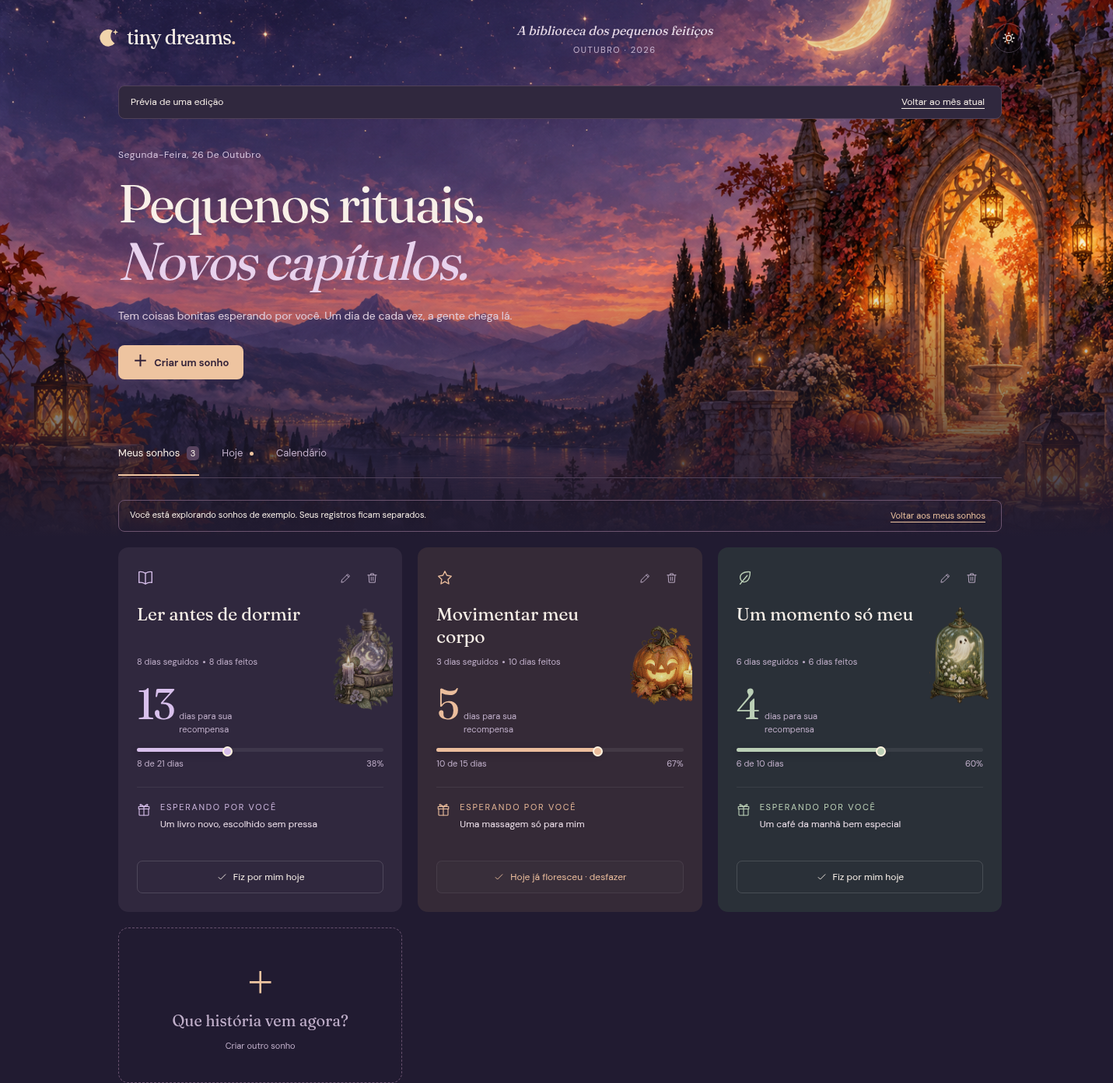
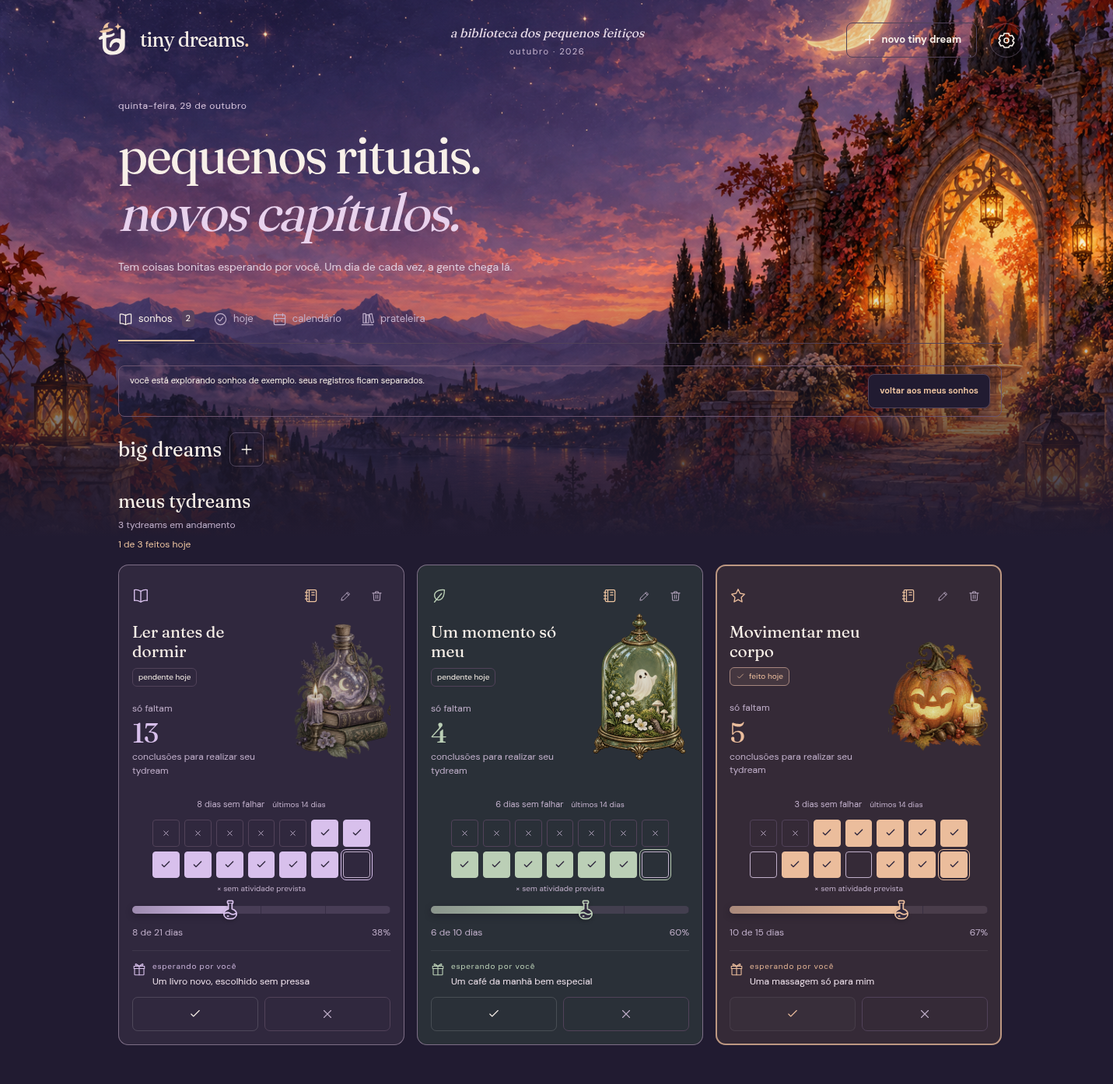
fix: align seasonal themes with shared card rules

diff --git a/web/ui/app.js b/web/ui/app.js
@@ -303,7 +303,7 @@ function habitStreakGrid(g){
  const count=streak(g);
  return `<div class="habit-streak"><div class="streak-caption"><span>${archived?'período encerrado':`${count} ${count===1?'dia':'dias'} sem falhar`}</span><small>últimos 14 dias</small></div><ol class="streak-grid" aria-label="últimos 14 dias corridos, do mais antigo ao mais recente">${cells.join('')}</ol><small class="streak-key">× sem atividade prevista</small><p class="streak-routine">rotina: ${esc(p.weekdays.length===7?'todos os dias':p.weekdays.map(d=>weekNames[d].toLowerCase()).join(' · '))}</p></div>`;
 }
-function goalCard(g){const count=progress(g),target=targetOf(g),earned=complete(g),p=planOf(g),amulet=window.DreamThemes?.current,countdown=cardCountdown(g);return `<article class="goal ${esc(g.color)} ${p.kind==='habit'&&homeStatus(g)===1?'done-today':''}" data-goal="${g.id}" data-today-status="${homeStatus(g)}" data-amulet-edition="${esc(amulet?.id||'2026-10')}" style="${amulet?.asset?`--amulet-objects:url('${esc(amulet.asset)}');--amulet-aspect:${amulet.geometry.objectAspect};--amulet-sheet-height:${amulet.geometry.objectSheetHeight}%`: ""}"><div class="goal-top"><span class="goal-symbol">${goalEmoji(g)}</span><div class="goal-menu"><button class="small-button diary-button" data-action="details" data-id="${g.id}" aria-label="histórico de ${esc(g.title)}" title="abrir histórico">${icon('diary')}</button><button class="small-button" data-action="edit" data-id="${g.id}" aria-label="Editar ${esc(g.title)}">${icon('edit')}</button><button class="small-button" data-action="delete" data-id="${g.id}" aria-label="Apagar ${esc(g.title)}">${icon('trash')}</button></div></div><div class="dream-summary ${p.kind==='amount'&&!p.end?'has-amount-trend':''}"><div class="talisman" aria-hidden="true" style="--charge:${Math.min(1,count/target)}">${g.color==='sage'&&(!amulet||amulet.id==='2026-10')?'<span class="ghost-scene"><span class="ghost-jar"></span><span class="ghost-viewport"><span class="ghost-spirit"></span></span><span class="ghost-foreground"></span></span>':''}</div><h2 class="dream-summary-title">${esc(g.title)}</h2><div class="dream-summary-copy">${dailyStateBadge(g)}<div class="countdown">${countdown.lead?`<small class="countdown-lead">${esc(countdown.lead)}</small>`:''}<strong data-user-content>${esc(countdown.value)}</strong><span>${esc(countdown.label)}</span></div></div></div><div class="dream-daily-slot">${amountTrend(g)}${habitStreakGrid(g)}${dailyItemProgress(g)}</div><div class="dream-date-slot">${p.end?`<p class="card-progress-deadline ${p.end<today()&&!earned?'overdue':''}">até ${prettyDay(p.end)}</p>`:''}</div><div class="dream-progress"><div class="progress" role="progressbar" aria-label="Progresso de ${esc(g.title)}" aria-valuemin="0" aria-valuemax="${target}" aria-valuenow="${Math.min(count,target)}"><span style="width:${Math.min(100,count/target*100)}%">${progressToken()}</span></div><div class="progress-label"><span>${currencyOf(g)?`<span data-user-content>${esc(progressText(g))}</span>`:`${fmt(count)} de ${fmt(target)} ${esc(unit(g))}`}</span><span>${Math.min(100,Math.round(count/target*100))}%</span></div></div><div class="dream-card-footer">${g.reward?`<div class="reward">${icon('gift')}<div><div class="reward-label">${isArchivedIncomplete(g)?'Recompensa não liberada':g.redeemed?'Recompensa celebrada':earned?'Recompensa liberada':'Esperando por você'}</div><div class="reward-name"><span data-user-content>${esc(g.reward)}</span></div></div></div>`:''}${earned&&g.reward?`<button class="check-button earned" data-action="redeem" data-id="${g.id}" ${g.redeemed?'disabled':''}>${icon('gift')}${g.redeemed?'Já celebrei esse sonho':'Resgatar minha recompensa'}</button>`:''}${frontDailyActions(g,true)}${p.kind!=='habit'?`<button class="text-button plan-open" data-action="details" data-id="${g.id}">${p.kind==='amount'?'adicionar valor':p.kind==='list'?'abrir minha lista':'abrir lista diária'}</button>`:''}</div></article>`}
+function goalCard(g){const count=progress(g),target=targetOf(g),earned=complete(g),p=planOf(g),amulet=isArchivedIncomplete(g)?window.DreamThemes?.forCreation(g.created_at):window.DreamThemes?.current,countdown=cardCountdown(g);return `<article class="goal ${esc(g.color)} ${p.kind==='habit'&&homeStatus(g)===1?'done-today':''}" data-goal="${g.id}" data-today-status="${homeStatus(g)}" data-amulet-edition="${esc(amulet?.id||'2026-10')}" style="${amulet?.asset?`--amulet-objects:url('${esc(amulet.asset)}');--amulet-aspect:${amulet.geometry.objectAspect};--amulet-sheet-height:${amulet.geometry.objectSheetHeight}%`: ""}"><div class="goal-top"><span class="goal-symbol">${goalEmoji(g)}</span><div class="goal-menu"><button class="small-button diary-button" data-action="details" data-id="${g.id}" aria-label="histórico de ${esc(g.title)}" title="abrir histórico">${icon('diary')}</button><button class="small-button" data-action="edit" data-id="${g.id}" aria-label="Editar ${esc(g.title)}">${icon('edit')}</button><button class="small-button" data-action="delete" data-id="${g.id}" aria-label="Apagar ${esc(g.title)}">${icon('trash')}</button></div></div><div class="dream-summary ${p.kind==='amount'&&!p.end?'has-amount-trend':''}"><div class="talisman" aria-hidden="true" style="--charge:${Math.min(1,count/target)}">${g.color==='sage'&&(!amulet||amulet.id==='2026-10')?'<span class="ghost-scene"><span class="ghost-jar"></span><span class="ghost-viewport"><span class="ghost-spirit"></span></span><span class="ghost-foreground"></span></span>':''}</div><h2 class="dream-summary-title">${esc(g.title)}</h2><div class="dream-summary-copy">${dailyStateBadge(g)}<div class="countdown">${countdown.lead?`<small class="countdown-lead">${esc(countdown.lead)}</small>`:''}<strong data-user-content>${esc(countdown.value)}</strong><span>${esc(countdown.label)}</span></div></div></div><div class="dream-daily-slot">${amountTrend(g)}${habitStreakGrid(g)}${dailyItemProgress(g)}</div><div class="dream-date-slot">${p.end?`<p class="card-progress-deadline ${p.end<today()&&!earned?'overdue':''}">até ${prettyDay(p.end)}</p>`:''}</div><div class="dream-progress"><div class="progress" role="progressbar" aria-label="Progresso de ${esc(g.title)}" aria-valuemin="0" aria-valuemax="${target}" aria-valuenow="${Math.min(count,target)}"><span style="width:${Math.min(100,count/target*100)}%">${progressToken()}</span></div><div class="progress-label"><span>${currencyOf(g)?`<span data-user-content>${esc(progressText(g))}</span>`:`${fmt(count)} de ${fmt(target)} ${esc(unit(g))}`}</span><span>${Math.min(100,Math.round(count/target*100))}%</span></div></div><div class="dream-card-footer">${g.reward?`<div class="reward">${icon('gift')}<div><div class="reward-label">${isArchivedIncomplete(g)?'Recompensa não liberada':g.redeemed?'Recompensa celebrada':earned?'Recompensa liberada':'Esperando por você'}</div><div class="reward-name"><span data-user-content>${esc(g.reward)}</span></div></div></div>`:''}${earned&&g.reward?`<button class="check-button earned" data-action="redeem" data-id="${g.id}" ${g.redeemed?'disabled':''}>${icon('gift')}${g.redeemed?'Já celebrei esse sonho':'Resgatar minha recompensa'}</button>`:''}${frontDailyActions(g,true)}${p.kind!=='habit'?`<button class="text-button plan-open" data-action="details" data-id="${g.id}">${p.kind==='amount'?'adicionar valor':p.kind==='list'?'abrir minha lista':'abrir lista diária'}</button>`:''}</div></article>`}
 function renderToday(){const habits=state.goals.filter(g=>planOf(g).kind==='habit'&&scheduled(g,today())&&(!complete(g)||dayDone(g,today()))),items=state.goals.flatMap(g=>planOf(g).kind==='list'?planOf(g).items.filter(i=>i.date&&i.date<=today()&&!(g.entries||[]).some(e=>e.key===i.id)).map(i=>({g,i})):[]);$('#content').innerHTML=`<div class="today-heading"><h2>hoje</h2><p>${habits.filter(g=>dayDone(g,today())).length} de ${habits.length} hábitos feitos${items.length?` · ${items.length} etapas até hoje`:''}</p></div>${habits.map(g=>`<div class="today-row"><span class="goal-symbol">${goalEmoji(g)}</span><div class="today-info"><h3>${esc(g.title)}</h3><p>${planOf(g).impulse?outcomeLabel(g,today()):planOf(g).dailyTarget?`${fmt(dailyTotal(g,today()))} de ${fmt(planOf(g).dailyTarget)} <span data-user-content>${esc(planOf(g).unit)}</span> hoje`:tasksOn(g,today()).map(t=>esc(t.title)).join(' · ')||`${progress(g)} de ${targetOf(g)} dias`}</p></div>${frontDailyActions(g)}</div>`).join('')}${items.map(({g,i})=>`<div class="today-row"><div class="today-info"><h3>${esc(i.title)}</h3><p>${esc(g.title)} · ${prettyDay(i.date)}</p></div><button class="secondary" data-action="details" data-id="${g.id}">Ver etapa</button></div>`).join('')}${!habits.length&&!items.length?'<p class="muted">Nada pendente para hoje. Seus sonhos e prazos continuam na visão geral.</p>':''}`}
 function dayOptions(selected=[0,1,2,3,4,5,6]){return weekNames.map((d,i)=>`<label><input type="checkbox" value="${i}" ${selected.includes(i)?'checked':''}><span>${d}</span></label>`).join('')}
 function updateTaskSummaries(){

diff --git a/web/ui/index.html b/web/ui/index.html
@@ -1,6 +1,6 @@
 <!doctype html>
 <html lang="pt-BR" data-motion="paused"><head><meta charset="utf-8"><meta name="viewport" content="width=device-width,initial-scale=1,viewport-fit=cover"><meta name="theme-color" content="#211b31"><meta name="apple-mobile-web-app-capable" content="yes"><meta name="apple-mobile-web-app-status-bar-style" content="black-translucent"><meta name="description" content="Seu habit tracker para cultivar rotinas, planejar metas e realizar sonhos."><title>tiny dreams · seu pequeno universo</title><link rel="icon" href="/icon.svg" type="image/svg+xml"><meta name="apple-mobile-web-app-title" content="tiny dreams"><link rel="apple-touch-icon" sizes="180x180" href="/apple-touch-icon.png"><link rel="manifest" href="/manifest.webmanifest"><link rel="stylesheet" href="/style.css"><link rel="stylesheet" href="/editions.css"><link rel="stylesheet" href="/navigation.css"></head>
-<body data-view="dreams"><div class="sky" aria-hidden="true"></div><canvas class="night-magic" id="nightMagic" aria-hidden="true"></canvas><header class="topbar"><a class="brand" href="/" aria-label="Tiny Dreams, início"><svg viewBox="0 0 32 32" fill="none" aria-hidden="true"><path d="M23 6A12 12 0 1 0 26 24 12 12 0 0 1 23 6Z" fill="currentColor"/><path d="m27 4 1 3 3 1-3 1-1 3-1-3-3-1 3-1Z" fill="currentColor"/></svg><span>tiny dreams<span class="brand-dot">.</span></span></a><span class="edition">A biblioteca dos pequenos feitiços <span>OUTUBRO · VOL. 01</span></span><button class="secondary header-create" id="newGoalButton" aria-label="novo tiny dream" title="novo tiny dream"><svg viewBox="0 0 24 24" fill="none" stroke="currentColor" stroke-width="1.6" aria-hidden="true"><path d="M12 5v14M5 12h14"/></svg><span>novo tiny dream</span></button><button class="icon-button" id="settingsButton" aria-label="Abrir preferências" title="Preferências"><svg viewBox="0 0 24 24" fill="none" stroke="currentColor" stroke-width="1.6"><path stroke-linejoin="round" d="m9 3-.5 2.1-1.7 1-2.1-.6-2.5 4.3 1.6 1.5v1.9l-1.6 1.5L4.7 19l2.1-.6 1.7 1L9 21h6l.5-1.6 1.7-1 2.1.6 2.5-4.3-1.6-1.5v-1.9l1.6-1.5-2.5-4.3-2.1.6-1.7-1L15 3Z"/><circle cx="12" cy="12" r="3"/></svg></button></header>
+<body data-view="dreams"><div class="sky" aria-hidden="true"></div><canvas class="night-magic" id="nightMagic" aria-hidden="true"></canvas><header class="topbar"><a class="brand" href="/" aria-label="Tiny Dreams, início"><svg class="brand-monogram" viewBox="0 0 128 136" aria-hidden="true"></svg><span>tiny dreams<span class="brand-dot">.</span></span></a><span class="edition">A biblioteca dos pequenos feitiços <span>OUTUBRO · VOL. 01</span></span><button class="secondary header-create" id="newGoalButton" aria-label="novo tiny dream" title="novo tiny dream"><svg viewBox="0 0 24 24" fill="none" stroke="currentColor" stroke-width="1.6" aria-hidden="true"><path d="M12 5v14M5 12h14"/></svg><span>novo tiny dream</span></button><button class="icon-button" id="settingsButton" aria-label="Abrir preferências" title="Preferências"><svg viewBox="0 0 24 24" fill="none" stroke="currentColor" stroke-width="1.6"><path stroke-linejoin="round" d="m9 3-.5 2.1-1.7 1-2.1-.6-2.5 4.3 1.6 1.5v1.9l-1.6 1.5L4.7 19l2.1-.6 1.7 1L9 21h6l.5-1.6 1.7-1 2.1.6 2.5-4.3-1.6-1.5v-1.9l1.6-1.5-2.5-4.3-2.1.6-1.7-1L15 3Z"/><circle cx="12" cy="12" r="3"/></svg></button></header>
 <main><section class="welcome"><div class="welcome-copy"><p class="date" id="dateLabel"></p><h1>Pequenos rituais.<br><em>Novos capítulos.</em></h1><p class="intro" data-user-content><span class="welcome-quote">“Põe quanto és no mínimo que fazes.”</span><a class="welcome-quote-source" href="https://pt.wikisource.org/wiki/Para_ser_grande,_sê_inteiro" target="_blank" rel="noopener noreferrer">Ricardo Reis (Fernando Pessoa) · <cite>Odes · “Para ser grande, sê inteiro”</cite></a></p><div class="welcome-bottom"></div></div></section>
 <section class="workspace" aria-label="Seus sonhos"><div class="workspace-top"><nav class="tabs" aria-label="Visões"><button class="tab active" data-view="dreams" aria-current="page">sonhos <span id="goalsCount">0</span></button><button class="tab" data-view="today">hoje</button><button class="tab" data-view="calendar">calendário</button><button class="tab" data-view="shelf">prateleira</button></nav></div>
 <div class="demo-banner" id="demoBanner" hidden><p>Você está explorando sonhos de exemplo. Seus registros ficam separados.</p><button class="text-button" id="leaveDemo">Voltar aos meus sonhos</button></div>

diff --git a/web/shared/brand.js b/web/shared/brand.js
@@ -1,0 +1,18 @@
+// A fixed td monogram; only the large site logo receives a seasonal hat.
+export const brandMonogram='<path class="brand-letters" fill="currentColor" d="M34 28C24 29 21 36 21 47V52C15 54 9 57 8 62C7 66 11 68 16 66L22 64V88C22 111 36 121 58 121C81 121 102 109 102 87V40C102 32 97 27 87 28V65C80 61 71 60 63 64C51 69 47 80 47 91C47 95 52 96 54 91C57 82 64 75 73 76C81 77 85 83 82 91C79 101 71 108 60 108C45 108 35 101 35 87V60C50 58 64 54 65 48C66 44 63 42 59 44C52 48 43 49 35 50V36C35 32 35 30 38 27Z"/><path class="brand-spark" fill="var(--accent,#eec4a0)" d="M77 7C79 16 81 18 90 20C81 22 79 24 77 33C75 24 73 22 64 20C73 18 75 16 77 7Z"/>';
+const hats={
+ halloween:'<path d="M21 34C27 22 25 8 48 5C36 14 43 21 43 27C56 25 63 28 59 32C49 39 27 44 15 40C8 37 12 34 21 34Z"/><path class="hat-band" d="M25 26 43 22 44 28 23 33Z"/>',
+ tidal:'<path d="M17 28Q33 3 51 23L48 31Q31 39 17 28Z"/><path class="hat-band" d="M15 29Q33 36 51 27L53 33Q34 43 15 35Z"/>',
+ village:'<path d="M18 31Q29 4 44 9Q53 12 54 22L47 24Q43 17 37 20L42 32Z"/><path class="hat-band" d="M16 31Q31 25 45 31L45 38Q30 33 16 39Z"/><circle cx="52" cy="24" r="5"/>',
+ atlas:'<path d="M19 30 23 13Q33 8 45 13L48 29Q63 28 61 34Q33 44 10 37Q8 31 19 30Z"/><path class="hat-band" d="M21 24Q34 29 47 23L48 29Q34 35 20 30Z"/>',
+ salon:'<path d="M12 30Q17 11 37 12Q54 12 55 25Q51 36 15 36Z"/><path class="hat-band" d="M17 32 48 29 47 36 18 39Z"/><path d="M33 13 32 6 38 5 39 13Z"/>',
+ reading:'<path d="M7 23 32 10 61 19 35 33Z"/><path class="hat-band" d="M20 29 21 38Q34 42 47 35L46 27 35 33Z"/><path fill="none" stroke="currentColor" stroke-width="3" d="M56 21V39"/>',
+ herbarium:'<path d="M19 30Q16 8 35 10Q48 10 48 29Q63 27 63 34Q49 44 10 39Q2 34 19 30Z"/><path class="hat-band" d="M19 25Q35 30 47 23L48 30Q33 35 19 31Z"/>',
+ letters:'<path d="M13 23Q18 9 38 10Q52 12 54 23L45 31 19 31Z"/><path class="hat-band" d="M18 29 49 27 48 34 19 37Z"/><path d="M19 36Q41 45 55 32L48 32Z"/>',
+ bookshop:'<path d="M20 29 22 13 47 11 50 28Q63 29 59 35Q34 44 10 38Q7 32 20 29Z"/><path class="hat-band" d="M21 22 49 21 50 28 20 30Z"/>',
+ train:'<path d="M12 23Q17 9 40 9Q54 10 55 23L47 30 19 31Z"/><path class="hat-band" d="M18 27 50 25 49 33 19 36Z"/><path d="M19 36Q39 44 56 31L48 32Z"/><circle class="hat-band" cx="34" cy="19" r="3"/>',
+ archive:'<path d="M9 24 31 9 58 18 35 32Z"/><path class="hat-band" d="M19 29 20 38Q35 41 47 33L46 27 35 32Z"/><path fill="none" stroke="currentColor" stroke-width="3" d="M55 20V37"/>',
+ atelier:'<path d="M13 29Q15 10 35 11Q53 11 54 27L46 34 19 36Z"/><path class="hat-band" d="M17 31 48 27 48 34 18 39Z"/>'
+};
+export function brandHat(layout){const key=Object.hasOwn(hats,layout)?layout:'halloween';return `<g class="brand-hat" data-hat="${key}">${hats[key]}</g>`}
+export function brandIconSVG(){return `<svg xmlns="http://www.w3.org/2000/svg" viewBox="0 0 128 128"><rect width="128" height="128" rx="28" fill="#30263e"/><g transform="translate(20 10) scale(.84)" color="#f8f0e8">${brandMonogram}</g></svg>`}

diff --git a/web/ui/editions.css b/web/ui/editions.css
@@ -291,7 +291,7 @@ html[data-edition] .dream-overview .goal[data-amulet-edition]:is(.lavender,.peac
 html[data-edition] .dream-overview .goal[data-amulet-edition]:is(.lavender,.peach,.sage) .dream-summary>.dream-summary-title{grid-column:1}
 /* Shared content-sized rows align the title area, progress and actions in each gallery. */
 html[data-edition] .dream-overview .goal-grid{grid-template-rows:repeat(6,max-content);grid-auto-rows:max-content;align-items:stretch}
-html[data-edition] .dream-overview .goal-grid>.goal{display:grid;grid-template-rows:subgrid;grid-row:span 6;row-gap:0;align-self:stretch}
+html[data-edition] .dream-overview .goal-grid>.goal{display:grid;grid-template-columns:minmax(0,1fr);grid-template-rows:subgrid;grid-row:span 6;row-gap:0;align-self:stretch}
 .dream-daily-slot,.dream-date-slot,.dream-card-footer{min-width:0}
 .dream-card-footer{display:flex;flex-direction:column;justify-content:flex-end}
 .dream-date-slot .card-progress-deadline{margin:0 0 12px}
@@ -304,3 +304,11 @@ html[data-edition] .dream-overview .goal-grid{row-gap:0}
 @media(min-width:561px){
  html[data-edition] .dream-overview .goal-grid>.goal{margin-bottom:16px}
 }
+
+/* Edition-specific legacy columns must not place the shared card sections. */
+html[data-edition] .dream-overview .goal-grid>.goal>div{grid-column:1;grid-row:auto;min-width:0}
+/* Every edition gains color with earned progress, while the amulet stays still. */
+html[data-edition] .dream-overview .goal[data-amulet-edition]:not([data-amulet-edition="2026-10"]) .dream-summary .talisman{filter:grayscale(calc(1 - var(--charge))) brightness(calc(.72 + var(--charge)*.28))}
+html[data-paper="true"] .dream-overview .goal .goal-menu .diary-button{color:var(--goal)}
+html[data-edition] .dream-overview .goal .dream-progress>.progress{align-self:stretch}
+html[data-edition] .dream-overview .goal .quick-outcomes>.check-button{grid-column:auto;grid-row:auto}

diff --git a/web/ui/navigation.css b/web/ui/navigation.css
@@ -337,3 +337,9 @@ html[data-edition] .incomplete-collection .goal-grid>.goal{display:flex;flex-dir
 .editing-goal .dream-kind-option{margin:0;padding:10px;min-height:44px;min-width:0;align-items:center;gap:8px;border:1px solid var(--line);border-radius:8px}
 .editing-goal .dream-kind-option>span>span,.editing-goal .dream-kind-option small,.editing-goal .dream-kind-options+.form-hint{display:none}
 .editing-goal .dream-kind-option strong{font-size:12px;line-height:1.4}
+
+/* The hat is decorative and seasonal; the monogram and spark stay recognizable. */
+.topbar .brand>svg.brand-monogram{width:46px;height:49px;flex-shrink:0;color:var(--text);overflow:visible}
+.brand-hat{fill:var(--accent);color:var(--accent)}
+.brand-hat .hat-band{fill:var(--bg);opacity:.75}
+@media(max-width:700px){.topbar .brand>svg.brand-monogram{width:38px;height:41px}.topbar .brand{gap:8px}}

diff --git a/web/ui/themes.js b/web/ui/themes.js
@@ -10,6 +10,8 @@ function applyEdition(){
   const dateKey=calendarParts(date).edition+'-'+calendarParts(date).day;
   const changed=current?.id!==selected.id||lastDate!==dateKey;
   current=selected;lastDate=dateKey;
+  const brand=document.querySelector('.brand-monogram');
+  if(brand)brand.innerHTML=brandMonogram+brandHat(selected.layout);
   root.dataset.edition=selected.id;root.dataset.layout=selected.layout;root.dataset.atmosphere=selected.atmosphere;root.dataset.paper=String(selected.light);
   for(const [token,value]of Object.entries(selected.tokens))root.style.setProperty(token,value);
   if(selected.geometry){root.style.setProperty('--object-aspect',String(selected.geometry.objectAspect));root.style.setProperty('--object-sheet-height',selected.geometry.objectSheetHeight+'%');root.style.setProperty('--scene-ratio',String(selected.geometry.sceneRatio));}

diff --git a/web/pages/login.html b/web/pages/login.html
@@ -34,7 +34,7 @@
   </style>
 </head>
 <body>
-  <header><svg viewBox="0 0 32 32" fill="none" stroke="currentColor" stroke-width="1.5" aria-hidden="true"><path d="M22 4a12 12 0 1 0 6 20A12 12 0 0 1 22 4Z"/></svg>tiny dreams</header>
+  <header><img src="/icon.svg" width="32" height="32" alt="">tiny dreams</header>
   <main>
     <h1>seu mundo de pequenos sonhos.</h1>
     <p>entre com sua senha para cuidar dos seus sonhos.</p>

diff --git a/DESIGN.md b/DESIGN.md
@@ -469,3 +469,11 @@ Amulet objects are stationary across editions and states, including after a succ
 Use the established modal, field and button styling for a single expired-dream decision on app open. Show the dream title, recorded progress, expired deadline and a practical suggestion; provide retry, explicit acceptance and a way to inspect history before deciding. The preferences entry opens a scrollable collection of accepted incomplete cards. Only this collection desaturates/darkens the original amulet; active and daily-complete cards retain earned color. The archive grid ends on the original deadline. Include an empty state and an action to resume deferred reviews.
 
 Editing has a clear “editar tiny dream” title, all applicable field sections stacked, compact two-column type controls without creation examples, open personalization and a sticky save action. Hide wizard headings/step counts/Next/Back while editing; retain the wizard unchanged for creation. Failed validation keeps the continuous layout and focuses the relevant field. Keep history and amulet identity through retries.
+
+## TD monogram and seasonal hat
+
+The fixed brand is a warm, rounded custom td ligature with an independent spark, authored in `web/shared/brand.js`. In the site header it inherits theme text/accent colors and gains one edition-specific hat perched on the t; keep its base geometry and spark unchanged. The SVG is 46 × 49px on desktop and 38 × 41px on mobile, with no logo animation. Hat silhouettes are presentation-only and follow the existing monthly edition lifecycle. Do not reveal future hat/edition artwork in user-facing previews.
+
+The favicon, opaque 180/192/512px installation PNGs and compact login image contain the plain td-and-spark monogram on the same fixed plum background. Never put the seasonal hat in these smaller identities or change them on month boundaries. The wordmark remains lowercase and readable, with a descriptive accessible home link.
+
+Seasonal card consistency: overview cards use one full-width column with six shared rows, irrespective of the edition's earlier showcase layout. Edition-specific columns cannot place card sections. All editions' amulets gain saturation and brightness with earned progress and stay still. Incomplete archived dreams use their creation edition's artwork with the archive's grayscale treatment.

diff --git a/PRODUCT.md b/PRODUCT.md
@@ -195,3 +195,9 @@ A dream needs a decision only after its inclusive deadline has passed without me
 Acceptance persists as `plan.incompleteAccepted` through an owner-scoped API action, without changing records, reward eligibility, amulet slot, target or deadline. Accepted dreams leave the home and appear as cards in the settings collection. Their same amulet is heavily desaturated; their grid shows the last fourteen calendar days through the deadline and rewards remain unavailable. Metadata edits preserve archived state. A meaningful retry removes the archive marker; expired retry criteria are rejected. Changing a habit retry to accumulated days removes its deadline and keeps prior earned records; amount/list retries can extend or remove the deadline or adjust the target. Historical corrections that meet the target naturally restore completed/shelf behavior.
 
 Creation retains the existing step wizard. Editing displays all applicable sections in one scrollable form with a persistent save action, compact type controls, expanded personalization and validation that keeps fields visible. Amount editing omits the routine section. Existing type/unit/history protections still apply. Both flows preserve the current amulet slot.
+
+## Fixed td identity with seasonal site hats
+
+The user selected the custom lowercase td monogram and approved the witch-hat variation. Preserve the spark and base letter geometry. Only the main site header adds a small hat on the t, selected by the current monthly edition. Twelve prepared hat silhouettes follow the existing edition layouts without new raster assets, theme selectors or future-art preloading. The current October hat is a witch hat. All other hat details remain monthly surprises.
+
+The favicon, installed Home Screen/PWA icons and compact login identity use the same fixed standard td-and-spark mark without any hat. Raster installation assets are opaque and have fixed appearance independent of monthly themes. Updating from the former moon icon is a one-time branding change; subsequent theme switches do not change the icon. Brand changes never affect dream symbols, amulets, records or navigation.

diff --git a/web/assets/PROVENANCE.md b/web/assets/PROVENANCE.md
@@ -13,3 +13,7 @@ Use case: stylized-concept. Asset type: transparent website illustration sprite 
 ## Layered October ghost
 
 The ghost dive uses non-destructive generated siblings `ghost-jar-v2.png` and `ghost-spirit-v2.png`. See [ghost-animation.md](ghost-animation.md) for their provenance, exact built-in image-generation prompts, dimensions, and compositing. The original talisman sprite strip remains unchanged.
+
+## TD identity and fixed installation icons · 2026-10-29
+
+The user selected the td monogram from built-in image-generation concept boards and approved a witch hat for the current site theme, retaining the spark. Production geometry was authored as editable SVG paths in `web/shared/brand.js`; the application does not serve the generated brainstorming rasters. `icon.svg` uses the plain monogram and spark, with no hat. `apple-touch-icon.png`, `icon-192.png` and `icon-512.png` are opaque rasterizations of that SVG, rendered with the locally available Sharp package and flattened onto #30263e. All seasonal hats are authored SVG paths confined to the large site identity; small installation icons remain invariant.

diff --git a/web/PAGES.md b/web/PAGES.md
@@ -56,7 +56,7 @@ References: https://developers.cloudflare.com/pages/get-started/direct-upload/ a
 
 ## Home Screen icon
 
-The app and login page declare a 180px Apple touch PNG. The manifest also includes 192px and 512px PNGs. Icons are opaque rasterizations of the existing `assets/icon.svg`, not a new logo. Installation metadata is available without a session so iOS can fetch it independently; personal artwork and APIs remain protected. After deploying this update, remove the old Home Screen shortcut and add the site again from Safari to refresh the cached icon.
+The app and login page declare a 180px Apple touch PNG. The manifest also includes 192px and 512px PNGs. Icons are opaque rasterizations of the fixed td-and-spark monogram in `assets/icon.svg`. They never include the seasonal hat shown only on the site header. Installation metadata is available without a session so iOS can fetch it independently; personal artwork and APIs remain protected. After deploying this update, remove the old Home Screen shortcut and add the site again from Safari to refresh the cached icon.
 
 ## Automatic updates
 
